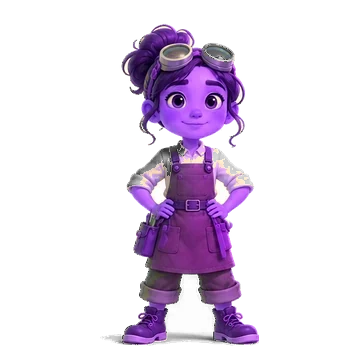
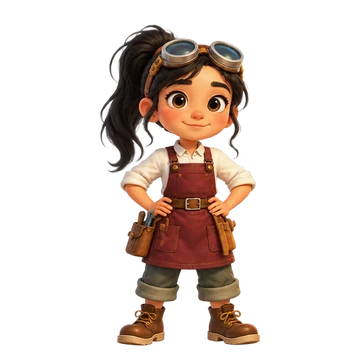
fix: 견습생 3명을 투명 배경으로 새로 생성해 교체 (배경 제거 경계 깨짐 해결)

Changed region(s): [[0.275, 0.0611, 0.7333, 0.9778]]

diff --git a/docs/art-todo.md b/docs/art-todo.md
@@ -78,4 +78,4 @@ CSS로 이미 입체 공(그라데이션+그림자)이 있어 **선택 사항**.
 ※ 위 3·4장의 "선택 사항"·"CSS 우선" 방침은 2026-09-30 사용자 지시("벡터는 텍스트만 남기고 나머지는 이미지로 대체")로 대체됐다. 장치·입자·UI도 그림으로 만든다.
 
 ## 견습생 선택 (2026-10-01)
-시작 화면에서 견습생 3명 중 고른다(`game/characters.ts`). 기존 그림은 `girl1`. **`boy`·`girl2`는 기존 그림의 색만 바꾼 임시본**이라 codex로 새로 그려 교체해야 한다: 남학생(`npc/apprentice_boy.webp`·`_happy`·`_think`), 여학생 2(`npc/apprentice_girl2.webp`·`_happy`·`_think`). 같은 격자 시트 화풍·360px 규격.
+시작 화면에서 견습생 3명 중 고른다(`game/characters.ts`). 3명 모두 codex로 **처음부터 투명 배경**(`gen_image.sh`에서 "REAL TRANSPARENT background" 요청)으로 새로 그려 교체했다. 원본 시트: `docs/assets-source/npc/{girl1,boy,girl2}_transparent.png` → `slice_sheet.py <시트> 3 1 public/assets/npc 360 <이름 3개>`. 흰 배경으로 받아 지우면 경계가 깎이고 내부 흰 얼룩이 남으므로 앞으로 인물·아이템도 투명 배경으로 요청한다.
